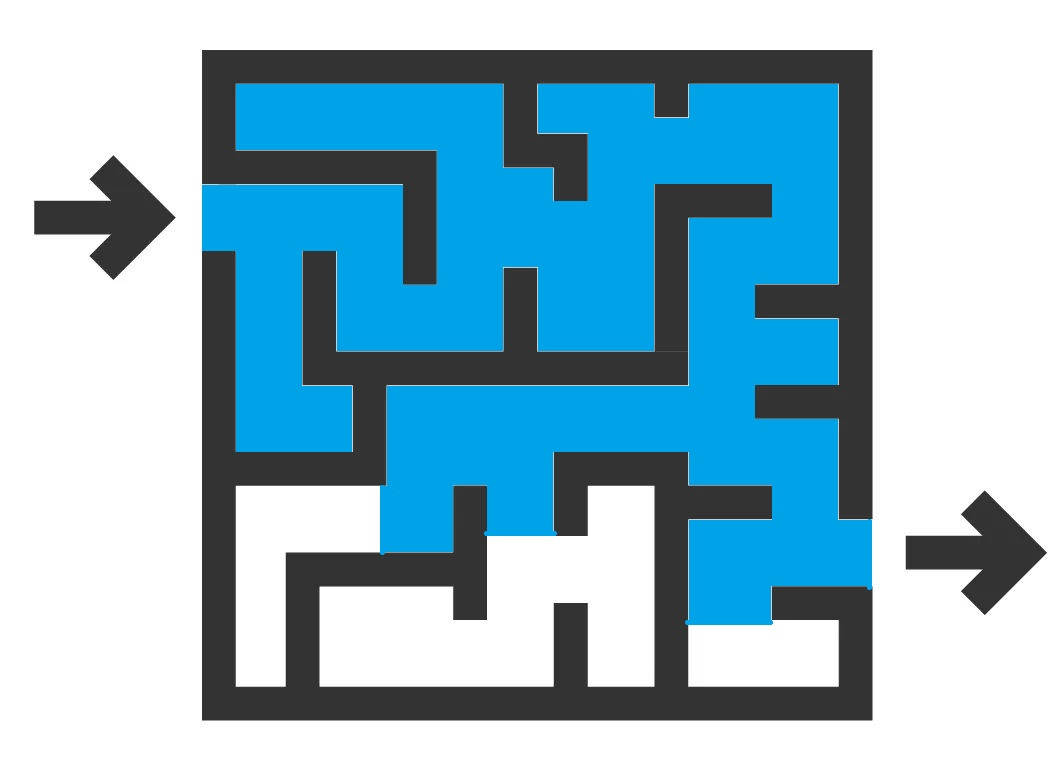
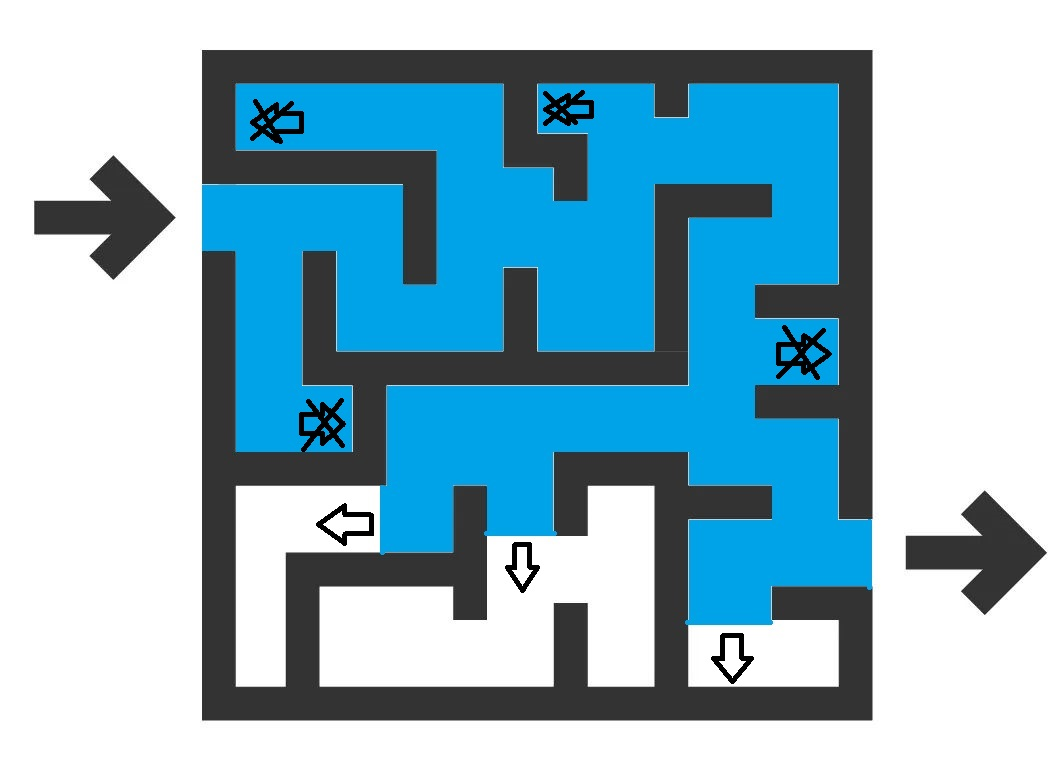
给插图作了一定完善，并添加了两个例题

diff --git a/content/get-started/algorithm.md b/content/get-started/algorithm.md
@@ -19,7 +19,7 @@ math: true
 首先我们希望的是，对于任意一个突然摆在面前的问题，能给出一个可行的算法把结果算出来。  
 这就是 “怎么算” 的问题。
 
-在确定了可能的解的范围的情况下，一个自然的想法就是搜索，搜索的想法类似走迷宫：  
+在确定了可能的解的范围的情况下，一个自然的想法就是搜索。搜索可以抽象为走迷宫：  
 把所有可能的解（岔路口）都查一遍，从而把真正的解（出口）给找出来。
 
 ![](./assets/search.jpeg)
@@ -27,14 +27,16 @@ math: true
 ### 深度优先搜索
 
 **深度优先搜索（Depth First Search，DFS）** 类似于一个对迷宫一无所知的人在走迷宫时会采用的方法：  
-径直走下去，遇到岔路口选择一条岔路向前，走到死胡同的时候返回到之前走过的岔路口走其他岔路，  
+径直走下去，如果遇到岔路口就选择一条岔路向前，  
+如果走到死胡同就原路返回到之前走过的岔路口走其他岔路，  
 直到走到出口或排除掉所有岔路。
 
 ![](./assets/dfs.jpeg)
 
-深度优先搜索的 C 代码大致如下：
+我们一般将深度优先搜索写成函数递归的形式。这样，  
+函数结束后一层层回溯的过程就是返回原岔路口的过程。大致的 C++ 代码参考如下：
 
-```c
+```cpp
 void dfs(/* 当前状态 */){
 	if(/*当前为终止状态（死胡同或出口）*/){
 		/*更新解*/
@@ -42,36 +44,39 @@ void dfs(/* 当前状态 */){
 	}
 	while(/*扫描所有岔路*/) if(/*岔路可以走*/){
 		//更新状态
-		dfs(/*下一状态*/);
+		dfs(/*下一状态*/);//走到下一条岔路
 		//撤回到原状态
 	}
 }
 ```
+深度优先搜索的典型例题是 [洛谷 P1706 全排列问题](https://www.luogu.com.cn/problem/P1706) 。
 
 ### 广度优先搜索
 
 **广度优先搜索（Breath First Search,BFS）** 类似于 “水走迷宫”：  
-在入口处浇水，水流遇到岔路会分成多股同时走，最终总有一股水流能到终点
+在入口处浇水，水流遇到岔路会分成多股同时走，最终总有一股水流能到终点。
 
 ![](./assets/bfs.jpeg)
 
-我们用一个队列来模拟“多股水流同时移动”的过程，大致的 C 代码如下：
+我们用一个队列来模拟“多股水流同时移动”的过程。队列中存储的是所有待移动的水流  
+（即上图的箭头），且时间戳靠前的水流在队列中也靠前。大致的 C++ 代码参考如下：
 
-```c
+```cpp
 void bfs(){
 	queue<type> q;
 	q.push(/*初始状态*/);
 	while(!q.empty()){
-		type now=q.front();//取出时间最靠前的水流（now）
+		type now=q.front();//取出时间戳最靠前的水流（now）
 		q.pop();
 		while(/*扫描所有岔路*/) if(/*岔路可以走*/){
 			type nxt;
-			/*nxt 即 now 的下一个状态*/
-			q.push(now);
+			/*nxt = now 的下一个状态*/
+			q.push(now);//下一个状态时间戳最靠后，放在队列的末尾
 		}
 	}
 }
 ```
+广度优先搜索的典型例题是 [洛谷 P1141 01迷宫](https://www.luogu.com.cn/problem/P1141)。
 
 ## 怎样算更好
 
@@ -94,8 +99,8 @@ $$1+2+3+\cdots+n$$
 如何将 $n$ 个数从小到大排成一列？一个自然的想法是，在前 $k\ (1\le k<n)$ 个数已经有序的情况下，    
 将第 $k+1$ 个数插入到这 $k$ 个数中。这就是 **插入排序（Insertion Sort）**。
 
-插入排序的 C 代码如下：
-```c
+插入排序的 C++ 代码如下：
+```cpp
 void insertionSort(int a[],int n){//待排序的数为 a[1]~a[n]，从小到大排序
 	for(int k=1;k<n;++k)
 		for(int i=k;i>0&&a[i]>a[i+1];--i){
@@ -128,9 +133,9 @@ $$\Omicron(n)$$
 
 具体地，我们不是考虑将单个数逐个插入已经排好序的数组中，而是考虑将两个已经排好序的数组合并。  
 显然这是容易实现的：将两个排好序的数组分别装入两个队列中，  
-每次取出两个队列的队头中较小（或较大）的那一个，其 C 代码如下：
+每次取出两个队列的队头中较小（或较大）的那一个，其 C++ 代码如下：
 
-```c
+```cpp
 int* merge(int *a,int n,int *b,int m){
 	//将 a[0]~a[n-1],b[0]~b[m-1] 合并，均为从小到大排序
 	int *out=(int*)malloc((n+m)*4);//答案数组
